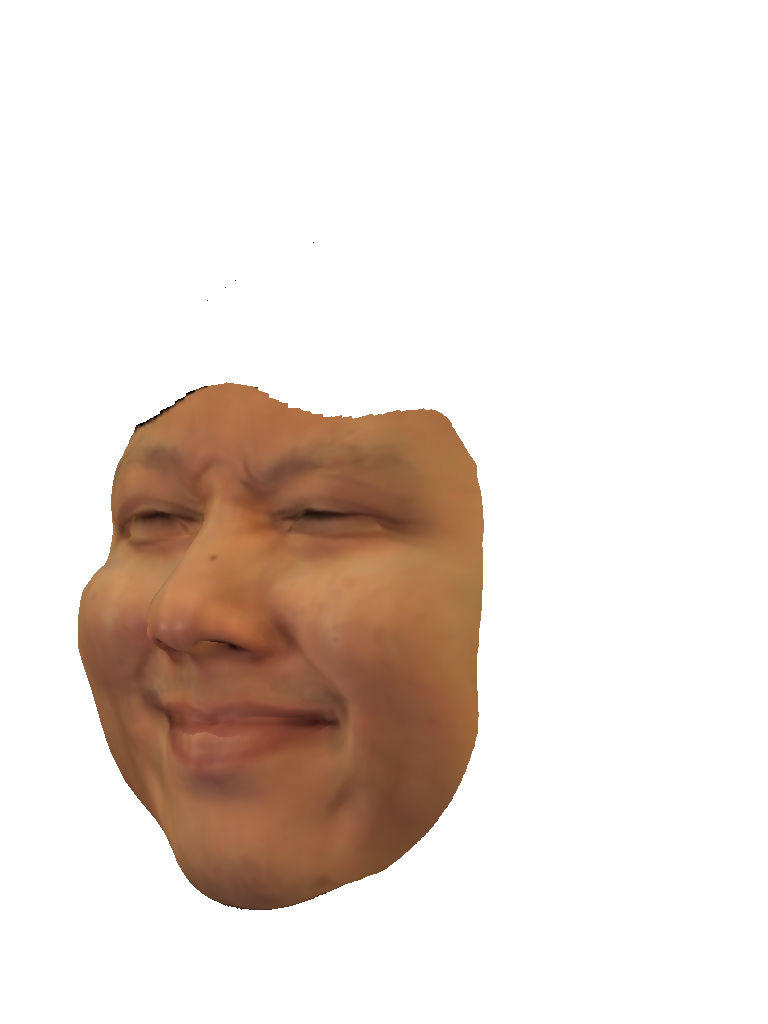
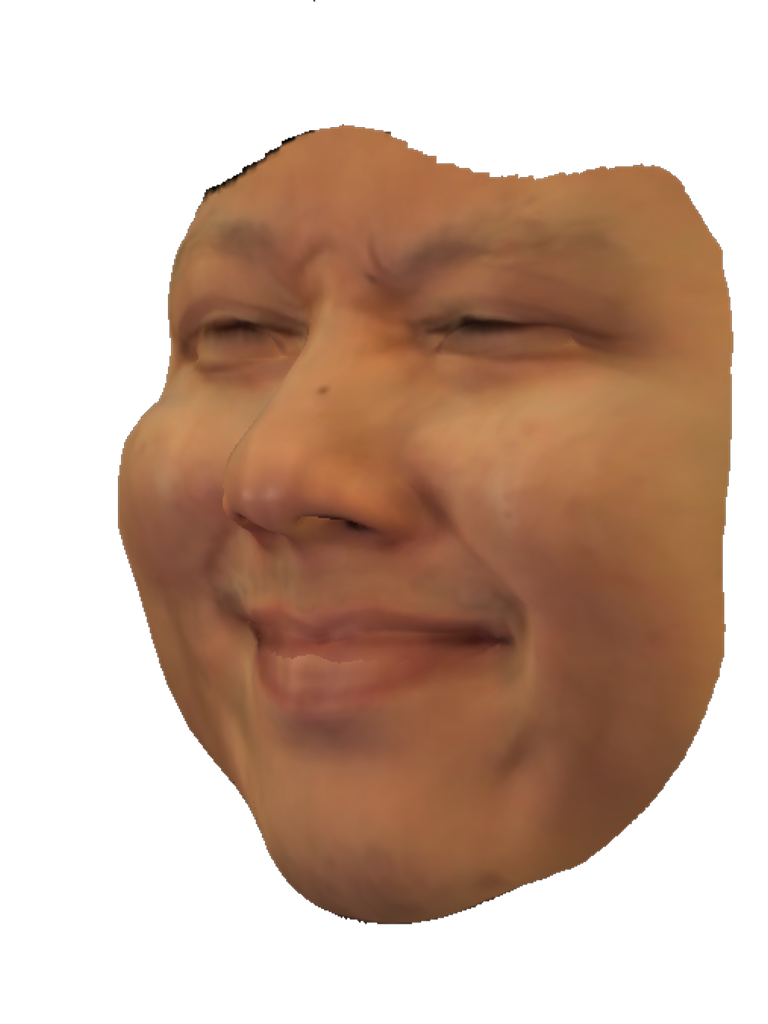
new results in supplemental

diff --git a/supplemental.tex b/supplemental.tex
@@ -100,9 +100,17 @@ While our implementation of the 3D face model fitting approach described in Sect
 \begin{figure}[th]
 \begin{center}
   \includegraphics[width=0.24\columnwidth]{figures/kylehao_transfer/raw000762.png}
-   \includegraphics[width=0.24\columnwidth]{figures/kylehao_transfer/raw000001.png}
-   \includegraphics[width=0.24\columnwidth]{figures/kylehao_transfer/static_000762.png}
-   \includegraphics[width=0.24\columnwidth]{figures/kylehao_transfer/dynamic_000762.png} 
+  \includegraphics[width=0.24\columnwidth]{figures/kylehao_transfer/raw000001.png}
+  \includegraphics[width=0.24\columnwidth]{figures/kylehao_transfer/static_000762.png}
+  \includegraphics[width=0.24\columnwidth]{figures/kylehao_transfer/dynamic_000762.png}
+  \includegraphics[width=0.24\columnwidth]{figures/kylehao_transfer/raw000837.png}
+  \includegraphics[width=0.24\columnwidth]{figures/kylehao_transfer/raw000001.png}
+  \includegraphics[width=0.24\columnwidth]{figures/kylehao_transfer/static_000837.png}
+  \includegraphics[width=0.24\columnwidth]{figures/kylehao_transfer/dynamic_000837.png}
+  \includegraphics[width=0.24\columnwidth]{figures/kylehao_transfer/raw000066.png}
+  \includegraphics[width=0.24\columnwidth]{figures/kylehao_transfer/raw000001.png}
+  \includegraphics[width=0.24\columnwidth]{figures/kylehao_transfer/static_000066.png}
+  \includegraphics[width=0.24\columnwidth]{figures/kylehao_transfer/dynamic_000066.png}
 \end{center}
    \caption{Non-frontal face reenactment. From left to right: the source image, the target image, the static texture and the dynamic texture. We can see that the dynamic texture contains more subtle details such as wrinkles, resulting in a more expressive and plausible image of the target subject.}
    \vspace{-0.05in}
